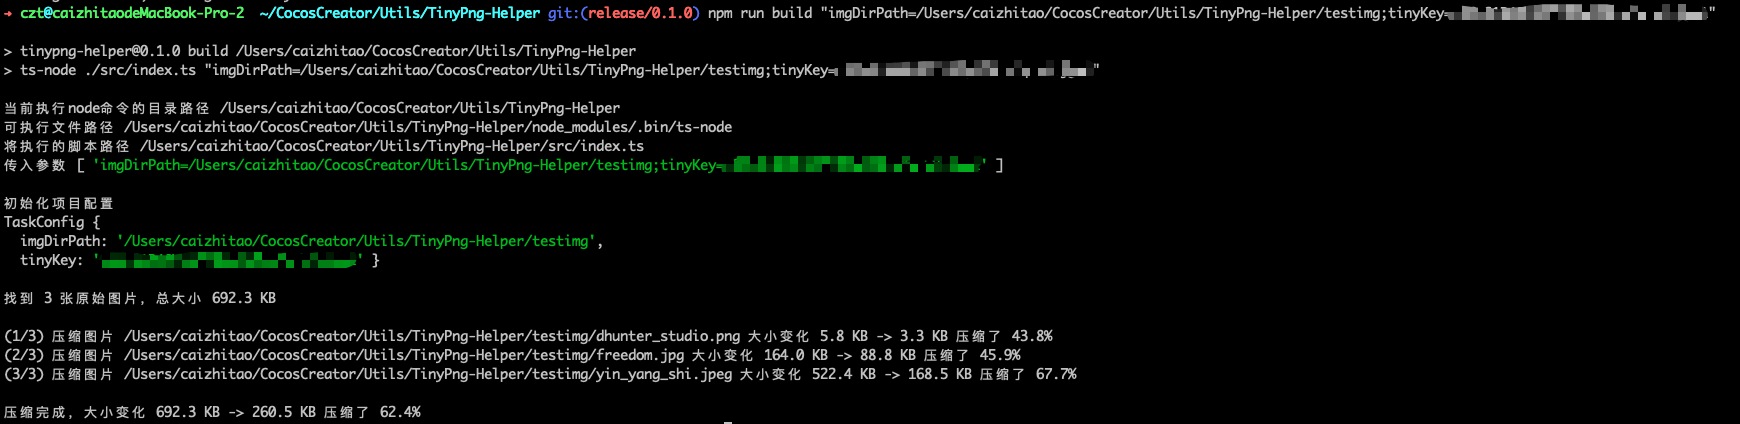
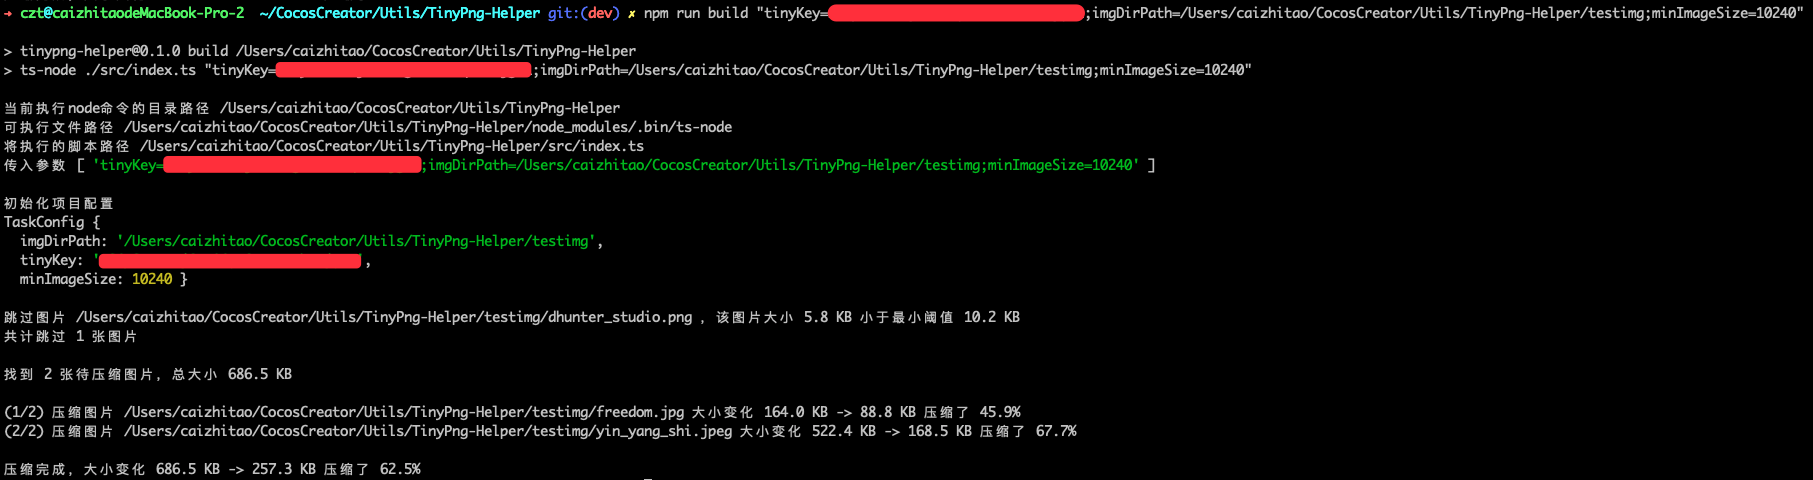
加入minImageSize参数：只有大于最小文件大小的图片文件才会参与压缩

diff --git a/src/tasks/TinyCompressTask.ts b/src/tasks/TinyCompressTask.ts
@@ -31,26 +31,43 @@ export class TinyCompressTask {
      */
     async handle(taskConfig: TaskConfig): Promise<void> {
         // 收集输出目录图片文件
-        let imgFilePaths: string[] = [];
+        let finalImgFilePaths: string[] = [];
+        let srcImgFilePaths: string[] = [];
         // FileUtil.collectFilePaths(taskConfig.imgDirPath, [".png", ".jpg", ".jpeg"], imgFilePaths);
-        FileUtil.collectFilePathsByChunk(taskConfig.imgDirPath, [FileChunk.PNG, FileChunk.JPEG], imgFilePaths);
+        FileUtil.collectFilePathsByChunk(taskConfig.imgDirPath, [FileChunk.PNG, FileChunk.JPEG], srcImgFilePaths);
+
+        // 过滤指定大小的图片
+        if (taskConfig.minImageSize > -1) {
+            finalImgFilePaths = srcImgFilePaths.filter((imgFilePath: string) => {
+                let fileSize = FileUtil.getFileSize(imgFilePath);
+                let result = fileSize > taskConfig.minImageSize;
+                if (!result) {
+                    console.log(`跳过图片 ${imgFilePath} ，该图片大小 ${FileUtil.toReadableFileSize(fileSize)} 小于最小阈值 ${FileUtil.toReadableFileSize(taskConfig.minImageSize)}`);
+                }
+                return result;
+            });
+            console.log(`共计跳过 ${srcImgFilePaths.length - finalImgFilePaths.length} 张图片`);
+            console.log("");
+        } else {
+            finalImgFilePaths = srcImgFilePaths;
+        }
 
         // 初始化数据
         this._curCompressedImageCount = 0;
-        this._totalCompressedImageCount = imgFilePaths.length;
+        this._totalCompressedImageCount = finalImgFilePaths.length;
         this._finalSizeInBytes = 0;
         this._srcSizeInBytes = 0;
-        imgFilePaths.forEach((imgFilePath) => {
+        finalImgFilePaths.forEach((imgFilePath) => {
             this._srcSizeInBytes += FileUtil.getFileSize(imgFilePath);
         });
-        console.log(`找到 ${imgFilePaths.length} 张原始图片，总大小 ${FileUtil.toReadableFileSize(this._srcSizeInBytes)}`);
+        console.log(`找到 ${finalImgFilePaths.length} 张待压缩图片，总大小 ${FileUtil.toReadableFileSize(this._srcSizeInBytes)}`);
         console.log("");
 
         // 执行加密（替换原文件）
         tinify.key = taskConfig.tinyKey;
         try {
             await Promise.all(
-                imgFilePaths.map((imgFilePath) => {
+                finalImgFilePaths.map((imgFilePath) => {
                     return this._compressImage(imgFilePath);
                 })
             );

diff --git a/src/tasks/TaskConfig.ts b/src/tasks/TaskConfig.ts
@@ -15,6 +15,12 @@ export class TaskConfig {
      */
     tinyKey: string = "";
 
+    /**
+     * 最小的文件大小（Bytes）
+     * 只有大于这个大小的图片文件才会进行压缩
+     */
+    minImageSize: number = -1;
+
     constructor() {
         // console.log("当前执行文件所在目录路径", __dirname);
         // console.log("当前执行文件绝对路径", __filename);
@@ -43,14 +49,15 @@ export class TaskConfig {
             let paramName = paramStruct[0];
             let paramValue = paramStruct[1];
             switch (paramName) {
-                case "imgDirPath": {
+                case "imgDirPath":
                     this.imgDirPath = paramValue;
                     break;
-                }
-                case "tinyKey": {
+                case "tinyKey":
                     this.tinyKey = paramValue;
                     break;
-                }
+                case "minImageSize":
+                    this.minImageSize = parseInt(paramValue);
+                    break;
             }
         });
     }
